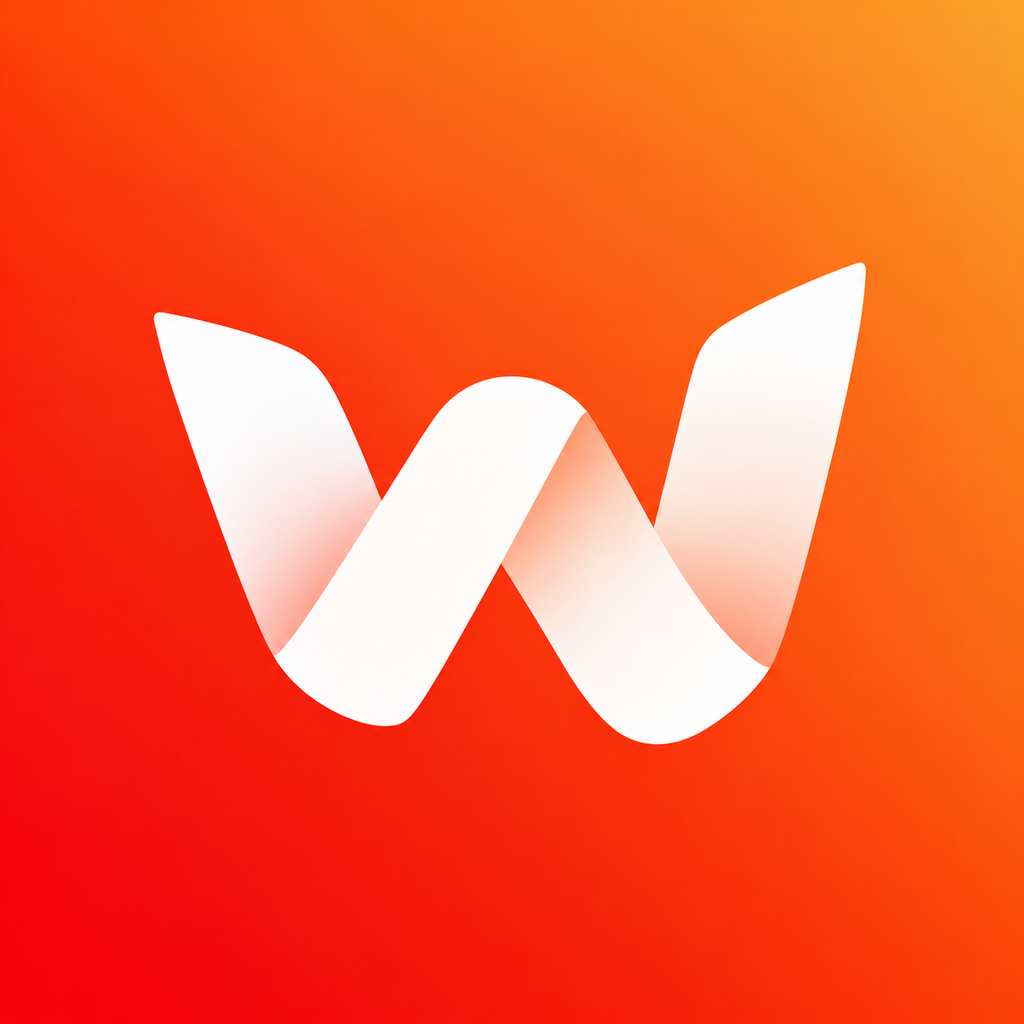
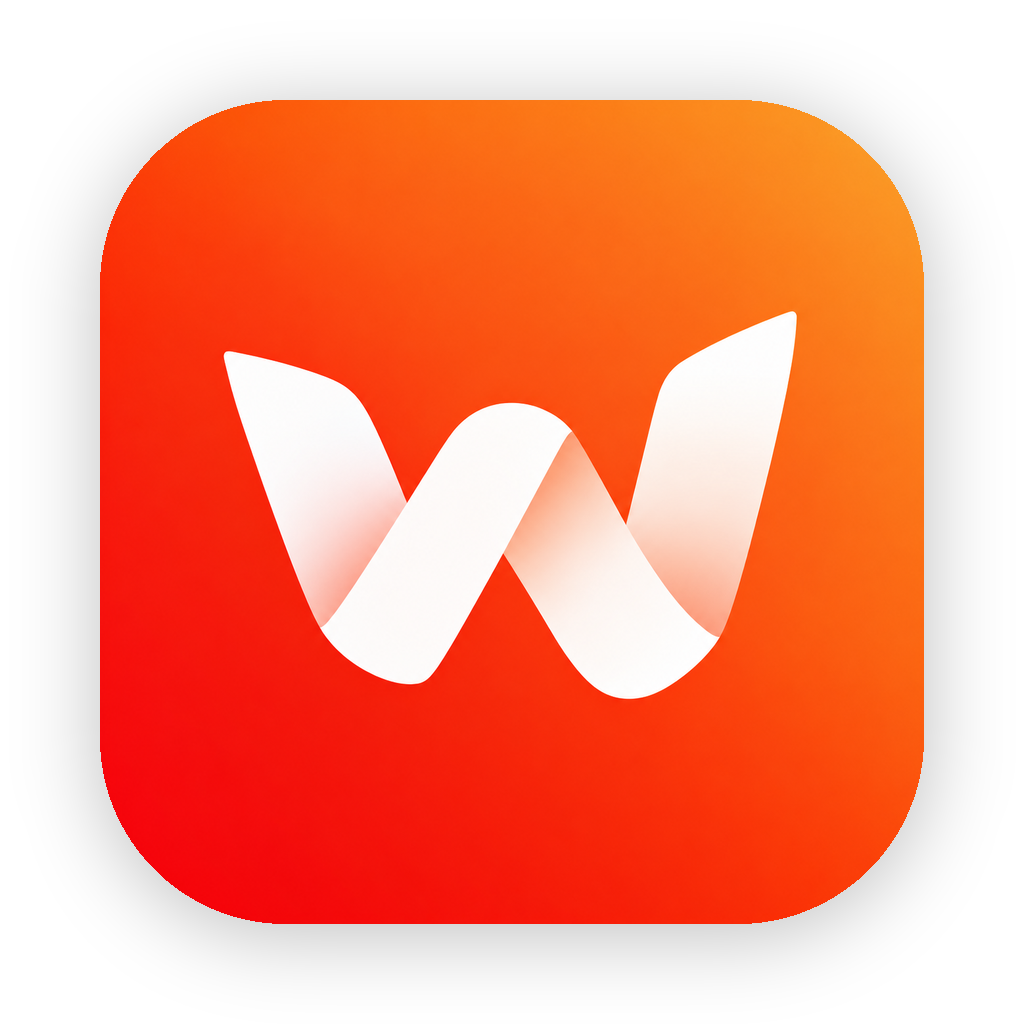
feat(desktop): 按 macOS 规范生成圆角图标并设置 dmg 卷图标

diff --git a/scripts/build-desktop-icon.py b/scripts/build-desktop-icon.py
@@ -1,0 +1,71 @@
+#!/usr/bin/env python3
+"""生成桌面端应用图标（backend/desktop/resources/icon.png）。
+
+macOS 的应用图标**不会**被系统自动裁圆角：Big Sur 起的规范是图标文件自带
+「超椭圆（squircle）」形状，四边留出安全边距，阴影也画在文件里。全出血的
+方形图放进 Dock 会出现一个生硬的方块——这正是之前的问题。
+
+本脚本从源图（docs/wmind_logo.png，唯一事实来源，原位保留）派生：
+
+- 画布 1024×1024（mygo 会转成 .icns 的多个尺寸）
+- 图标本体 824×824，居中，圆角半径 185.4（Apple Big Sur 模板数值）
+- 本体外画一层投影：偏移 (0, 10)，模糊 40，黑色 25%
+
+用法：python3 scripts/build-desktop-icon.py
+依赖：Pillow（pip install pillow）
+"""
+
+from pathlib import Path
+
+from PIL import Image, ImageDraw, ImageFilter
+
+ROOT = Path(__file__).resolve().parent.parent
+SOURCE = ROOT / "docs" / "wmind_logo.png"
+OUTPUT = ROOT / "backend" / "desktop" / "resources" / "icon.png"
+
+CANVAS = 1024
+BODY = 824          # 图标本体尺寸（Apple 模板）
+MARGIN = (CANVAS - BODY) // 2
+RADIUS = 185.4      # Big Sur 模板的圆角半径
+SHADOW_OFFSET = 10
+SHADOW_BLUR = 40
+SHADOW_ALPHA = 64   # 25% 左右
+
+
+def rounded_mask(size: int) -> Image.Image:
+    """生成 squircle 蒙版：白=可见，黑=透明。"""
+    mask = Image.new("L", (size, size), 0)
+    draw = ImageDraw.Draw(mask)
+    draw.rounded_rectangle(
+        (0, 0, size - 1, size - 1), radius=RADIUS, fill=255
+    )
+    return mask
+
+
+def main() -> None:
+    src = Image.open(SOURCE).convert("RGB")
+
+    # 1) 图标本体：源图缩放后按圆角裁剪。
+    artwork = src.resize((BODY, BODY), Image.LANCZOS)
+    artwork.putalpha(rounded_mask(BODY))
+
+    # 2) 画布 + 投影：先把黑色圆角块模糊一次再压暗，得到柔和的阴影。
+    canvas = Image.new("RGBA", (CANVAS, CANVAS), (0, 0, 0, 0))
+    shadow = Image.new("L", (CANVAS, CANVAS), 0)
+    shadow_draw = ImageDraw.Draw(shadow)
+    shadow_draw.rounded_rectangle(
+        (MARGIN, MARGIN + SHADOW_OFFSET, MARGIN + BODY, MARGIN + BODY + SHADOW_OFFSET),
+        radius=RADIUS, fill=SHADOW_ALPHA,
+    )
+    shadow = shadow.filter(ImageFilter.GaussianBlur(SHADOW_BLUR))
+    canvas.paste((0, 0, 0, 255), (0, 0), shadow)
+
+    # 3) 本体落位。
+    canvas.paste(artwork, (MARGIN, MARGIN), artwork)
+    canvas.save(OUTPUT, optimize=True)
+
+    print(f"written {OUTPUT} ({canvas.size[0]}x{canvas.size[1]})")
+
+
+if __name__ == "__main__":
+    main()

diff --git a/docs/11-桌面客户端设计.md b/docs/11-桌面客户端设计.md
@@ -207,9 +207,16 @@ Linux  ~/.local/share/wmind/
 | M-D3 本地 AI 与备份 | 已完成 | 本地用户是管理员，AI 配置走既有后台表单（配置写本地 settings、密钥本地派生）；备份新增 `target=folder` 本地目录目标，S3/WebDAV 保留 |
 | M-D4 签名与自动更新 | 部分完成 | 版本一致性与 CI 已就位；签名/公证/自动更新需要 Developer ID、证书与更新密钥（凭据不入库，见 §8） |
 
+图标：`backend/desktop/resources/icon.png` 由 `scripts/build-desktop-icon.py` 从源图
+（`docs/wmind_logo.png`，原位保留）派生——1024 画布、824 本体、圆角半径 185.4、
+外加一层柔和投影，符合 macOS Big Sur 起的 squircle 规范。**系统不会自动裁圆角**，
+所以图标文件本身必须带形状与边距。
+
 出盘方式：`.dmg` 由 `scripts/build-desktop.mjs` 用 `hdiutil` 生成（内含 `wmind.app`
 与指向 `/Applications` 的软链接），而不是交给 mygo 的 dmg 步骤——后者调用
 `ditto --noclone`，该选项在 macOS 13 及更早的 `ditto` 上不存在，会直接失败。
+卷图标以「挂载 → 写 `.VolumeIcon.icns` → `SetFile -a C` → 重新压缩」的方式设置
+（macOS 13 的 `hdiutil create` 没有 `-volicon`）；拿不到 `SetFile` 时退回无卷图标的普通 dmg。
 `darwin/universal` 会分别编译 arm64 与 amd64 再用 `lipo` 合成一个二进制，
 Intel 与 Apple Silicon 共用同一个安装包。
 
